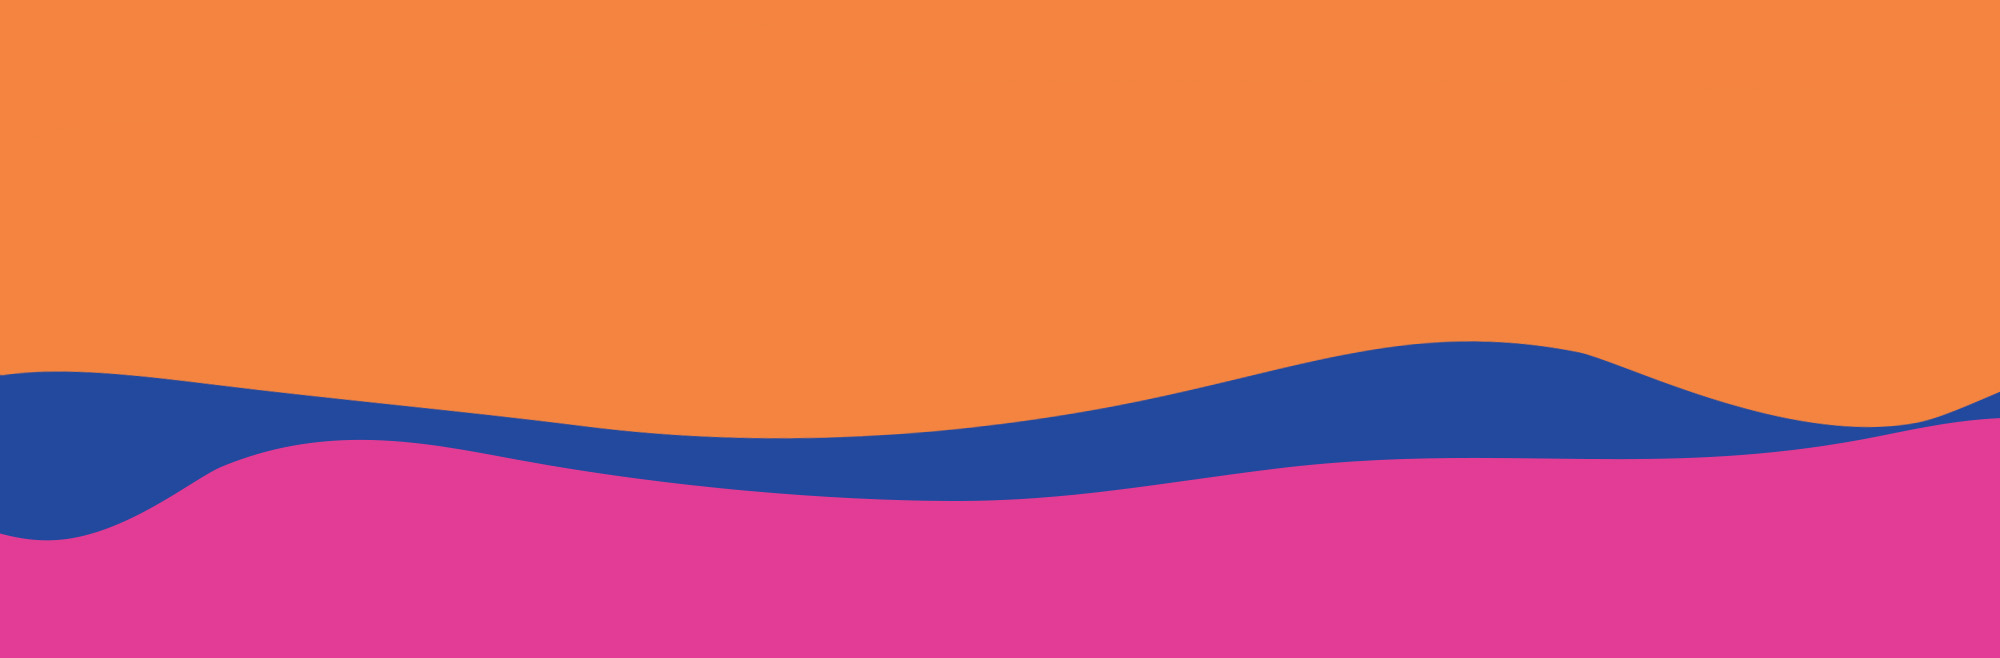
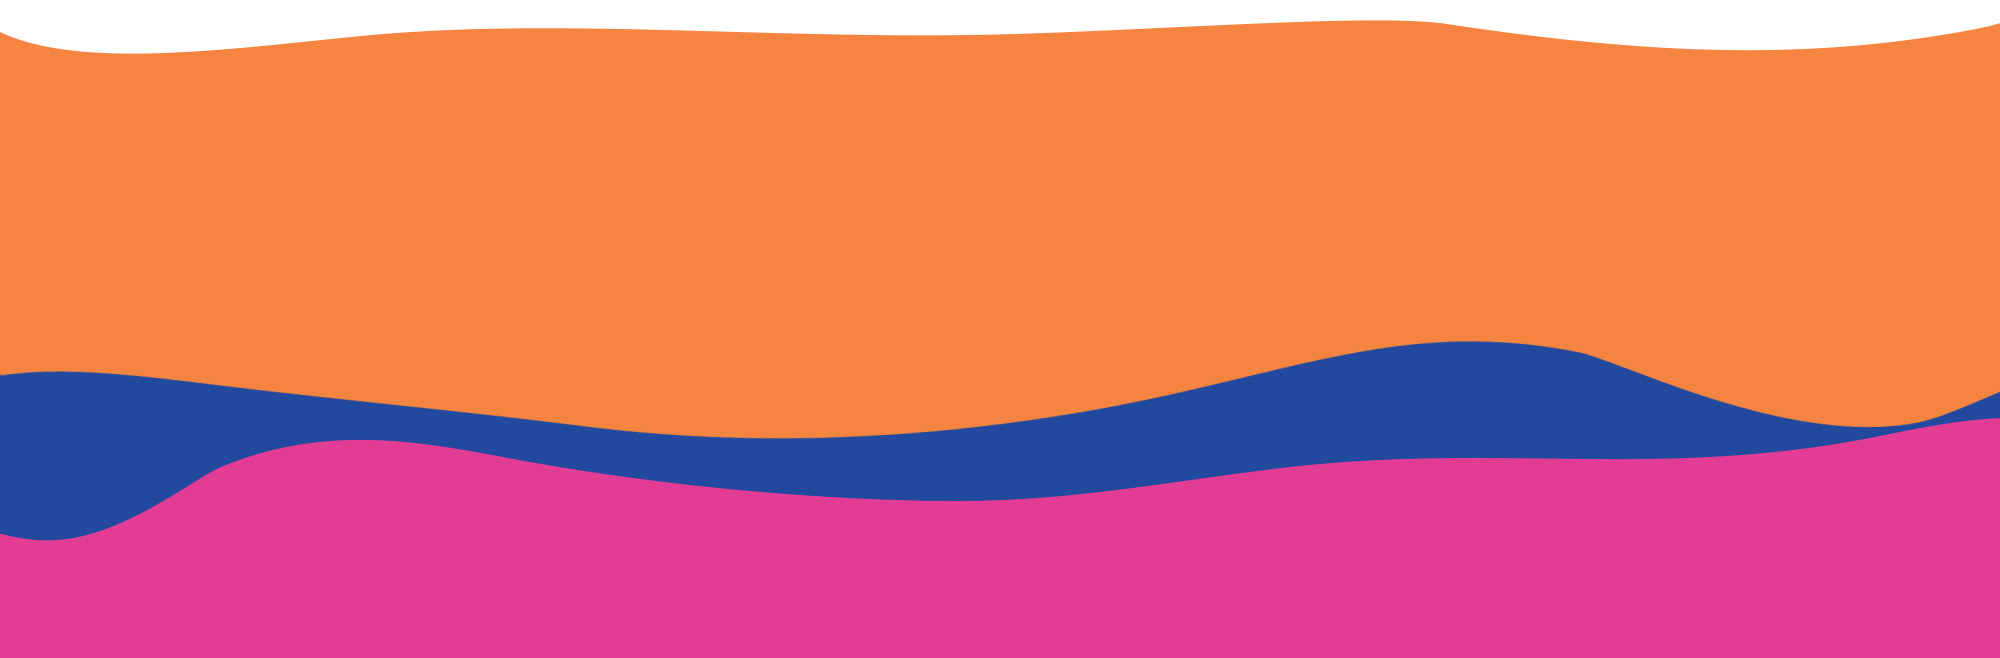
Add files via upload

Changed region(s): [[0.0, 0.0, 1.0, 0.0912]]

diff --git a/style.css b/style.css
@@ -217,11 +217,13 @@ h1 {
 
 h2 {
   font-size: 22px;
+  color: #344a9a;
 }
 
 h3 {
   font-size: 18px;
   font-weight: 600;
+  color: #e23c95;
 }
 
 h4 {
@@ -1221,9 +1223,9 @@ ul {
 /***** Hero component *****/
 .hero {
   background-image: url($homepage_background_image);
-  background-position: center;
+  background-position: top center;
   background-size: cover;
-  height: 300px;
+  height: 350px;
   padding: 0 20px;
   text-align: center;
   width: 100%;
